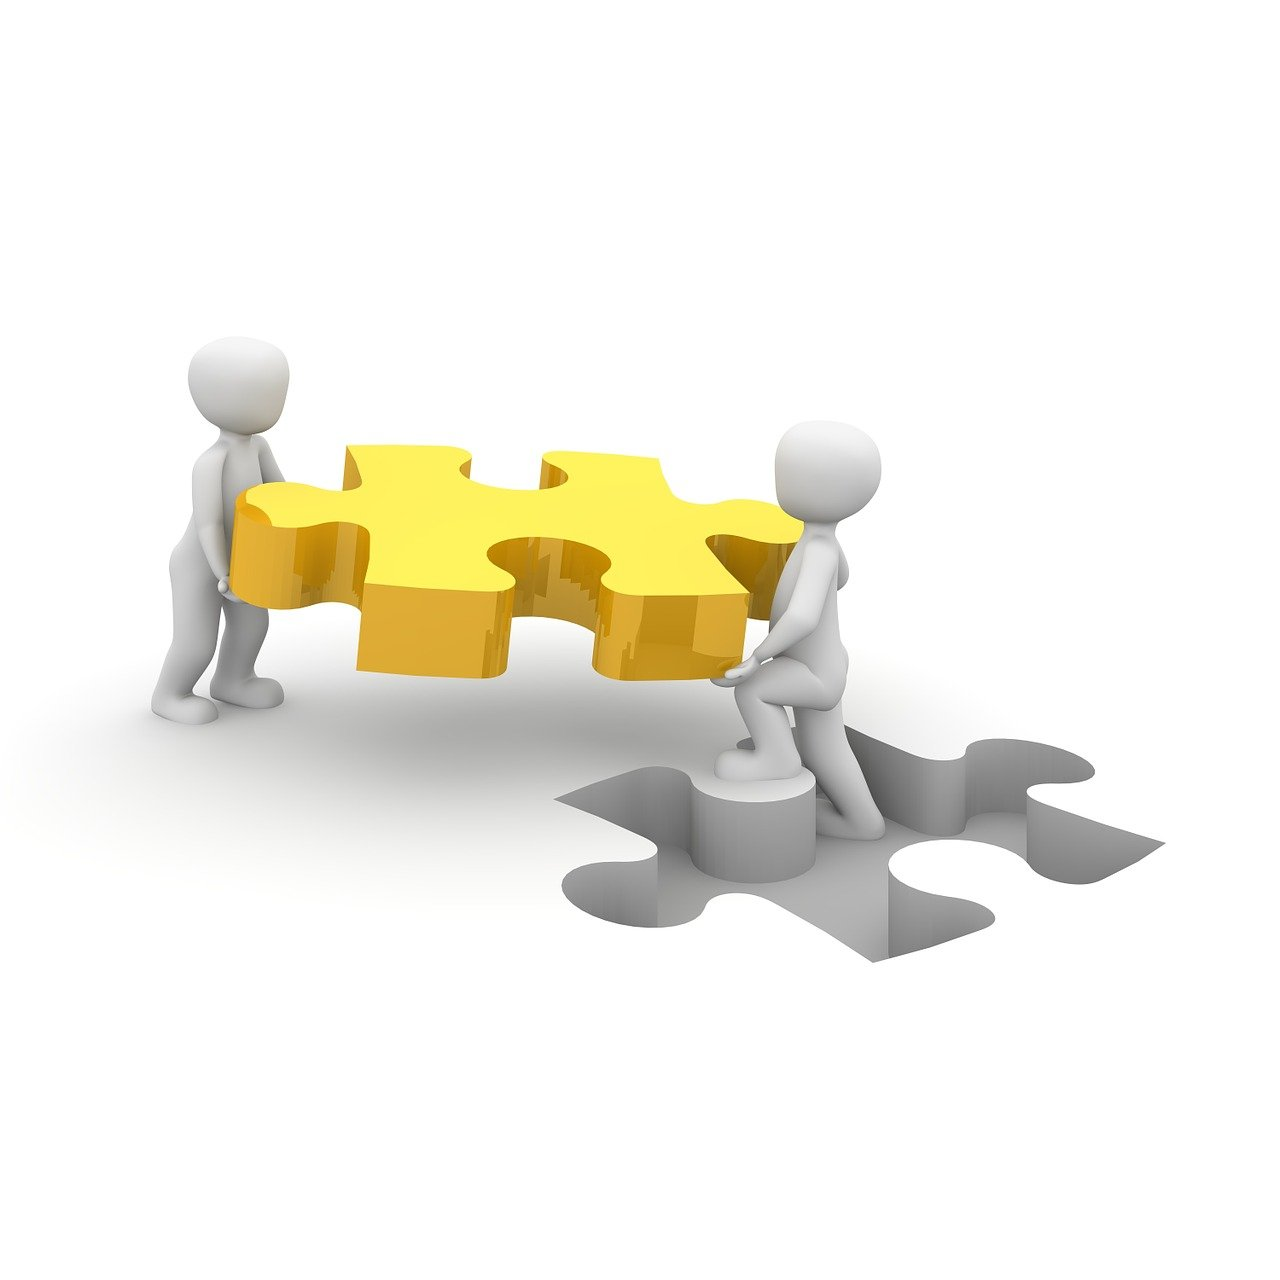
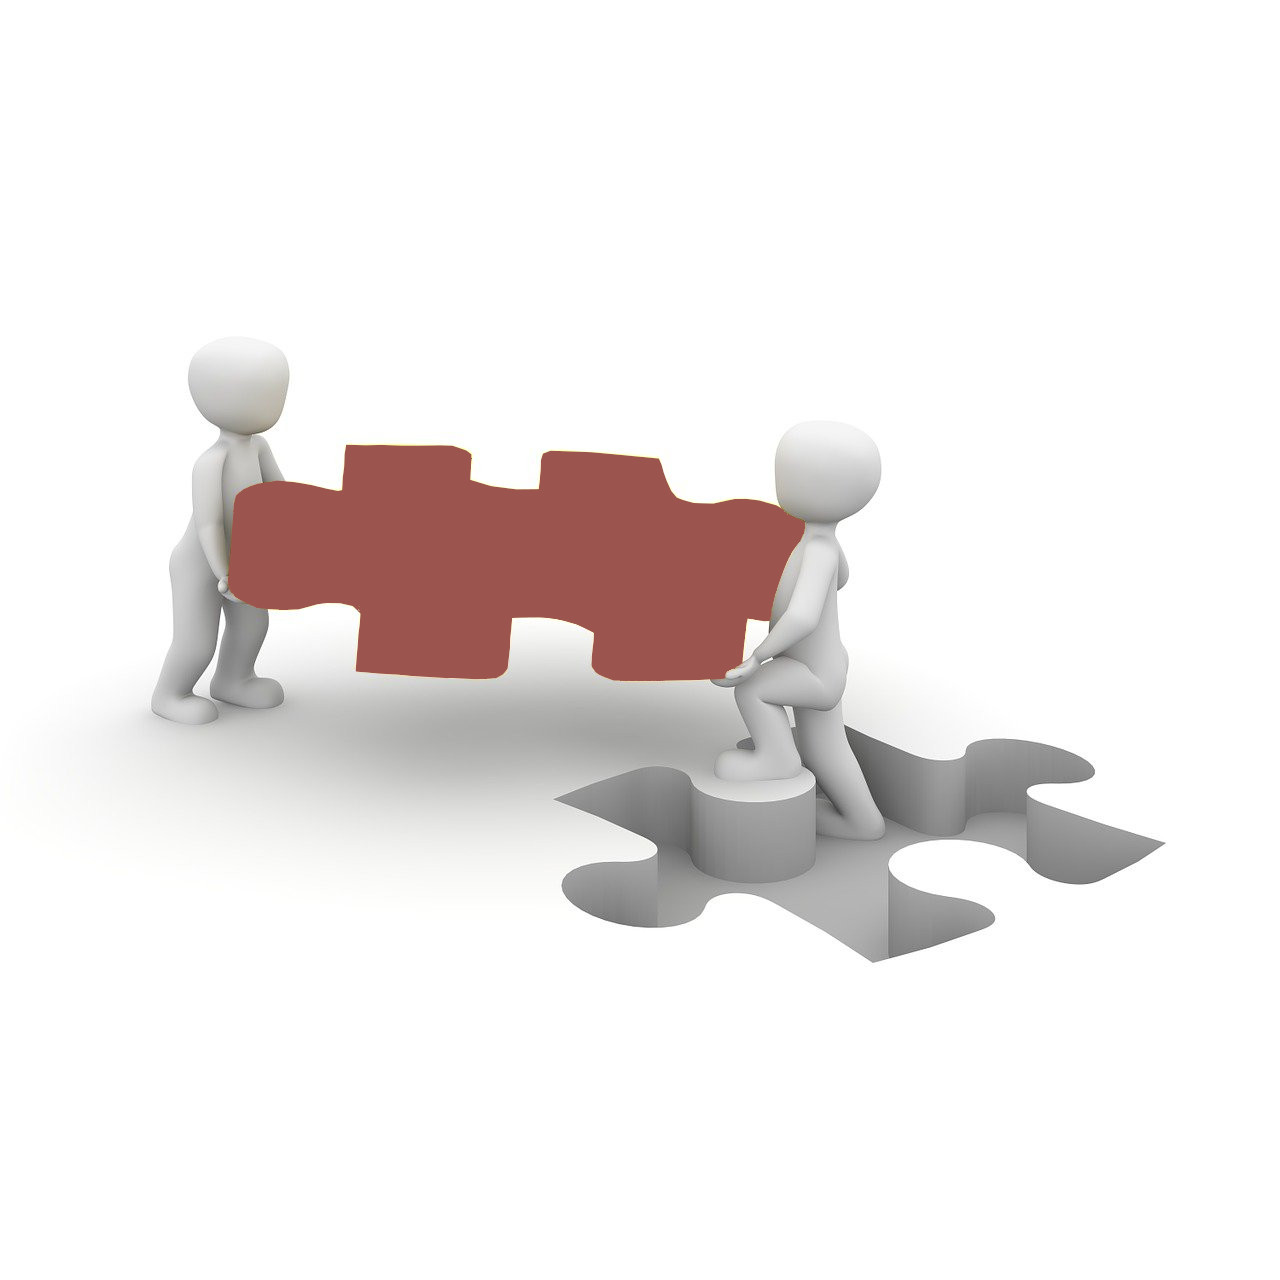
Modifications des images de présentation sur l'accueil

Changed region(s): [[0.1562, 0.3438, 0.625, 0.5312]]

diff --git a/src/app/pages/accueil/accueil.component.html b/src/app/pages/accueil/accueil.component.html
@@ -51,14 +51,14 @@
     <div class="grid grid-cols-1 md:grid-cols-2 lg:grid-cols-4 gap-8">
         <!-- Point 1 -->
         <div class="transform hover:scale-105 transition duration-300 flex flex-col items-center text-center">
-            <img src="assets/mountain.jpg" alt="Expérience" class="w-16 h-16 mb-4">
+            <img src="assets/mountain.png" alt="Expérience" class="w-16 h-16 mb-4">
             <h3 class="text-xl font-semibold mb-2">Une expérience unique</h3>
             <p class="text-gray-600">18 ans d’expertise dans des secteurs variés comme la recherche, l’industrie, et
                 l’IT.</p>
         </div>
         <!-- Point 2 -->
         <div class="transform hover:scale-105 transition duration-300 flex flex-col items-center text-center">
-            <img src="assets/puzzle.jpg" alt="Flexibilité" class="w-20 h-16 mb-4">
+            <img src="assets/puzzle.jpg" alt="Flexibilité" class="w-16 h-16 mb-4">
             <h3 class="text-xl font-semibold mb-2">Polyvalence et flexibilité</h3>
             <p class="text-gray-600">Capacité à m’adapter à vos besoins spécifiques et à vos objectifs.</p>
         </div>
@@ -70,7 +70,7 @@
         </div>
         <!-- Point 4 -->
         <div class="transform hover:scale-105 transition duration-300 flex flex-col items-center text-center">
-            <img src="assets/main.png" alt="Personnalisation" class="w-22 h-16 mb-4">
+            <img src="assets/main.png" alt="Personnalisation" class="w-16 h-16 mb-4">
             <h3 class="text-xl font-semibold mb-2">Accompagnement personnalisé</h3>
             <p class="text-gray-600">Proximité et écoute pour vous offrir des solutions sur mesure.</p>
         </div>

diff --git a/src/app/pages/services/services.component-DESKTOP-SUEDVFB.scss b/src/app/pages/services/services.component-DESKTOP-SUEDVFB.scss
@@ -1,0 +1,75 @@
+.grid {
+    display: grid;
+}
+
+.cursor-pointer {
+    cursor: pointer;
+}
+
+.text-primary {
+    color: #9c544e;
+}
+
+.text-primary-dark {
+    color: #7b423b;
+}
+
+
+/* Titres */
+.service-card h3 {
+    cursor: pointer;
+    color: #9c544e;
+    font-weight: 600;
+}
+
+/* Conteneur texte */
+.text-container {
+    max-height: 0;
+    opacity: 0;
+    overflow: hidden;
+    transition: max-height 0.3s ease, opacity 0.3s ease;
+
+    &.open {
+        max-height: 1000px;
+        opacity: 1;
+    }
+}
+
+/* Liste d'éléments */
+.service-card ul li {
+    color: #4a4a4a;
+    font-size: 1rem;
+    line-height: 1.2;
+    position: relative;
+    padding-left: 0;
+    padding-bottom: 0;
+
+    &:after {
+        content: '•';
+        color: #9c544e;
+        font-size: 1.5rem;
+        display: block;
+        text-align: center;
+        margin-top: 0;
+    }
+
+    &:last-child:after {
+        content: '';
+    }
+
+    /*Icones*/
+    .icon {
+        width: 24px;
+        height: 24px;
+        display: flex;
+        align-items: center;
+        justify-content: center;
+        color: #9c544e;
+        /* Couleur par défaut des icônes */
+    }
+
+    .size-6 {
+        width: 1.5rem;
+        height: 1.5rem;
+    }
+}

diff --git a/src/app/pages/services/services.component.ts b/src/app/pages/services/services.component.ts
@@ -49,20 +49,12 @@ export class ServicesComponent {
     if (index !== undefined) {
       this.expanded[index] = true; // Dérouler le service correspondant
 
-      window.scrollTo(0, 0);
+      //window.scrollTo(0, 0);
 
       setTimeout(() => {
         const element = document.getElementById(id);
-        if (element) {
-          // Calculer le décalage pour compenser un header fixe
-          const yOffset = -80; // Ajustez cette valeur selon la hauteur du header
-          const y =
-            element.getBoundingClientRect().top + window.scrollY + yOffset;
-
-          // Effectuer un défilement fluide
-          window.scrollTo({ top: y, behavior: 'smooth' });
-        }
-      }, 150);
+        element?.scrollIntoView({ behavior: 'smooth' });
+      }, 100); // Attendre un court instant pour s'assurer que le DOM est prêt
     }
   }
 

diff --git a/src/app/pages/contact/contact.component-DESKTOP-SUEDVFB.scss b/src/app/pages/contact/contact.component-DESKTOP-SUEDVFB.scss
@@ -1,0 +1,19 @@
+.map-image {
+    height: 100%;
+    width: 100%;
+    border: 2px solid #9c544e;
+    border-radius: 8px;
+}
+
+.map-container {
+    position: relative;
+    height: 500px;
+    width: 100%;
+}
+
+#map {
+    height: 100%;
+    width: 100%;
+    border: 2px solid #9c544e;
+    border-radius: 8px;
+}

diff --git a/src/app/pages/accueil/accueil.component.scss b/src/app/pages/accueil/accueil.component.scss
@@ -10,3 +10,8 @@
         1px 1px 2px rgba(156, 84, 78, 0.8);
     /*l'ombre interne en bas à droite */
 }
+
+img {
+    width: 125px;
+    height: 125px;
+}
